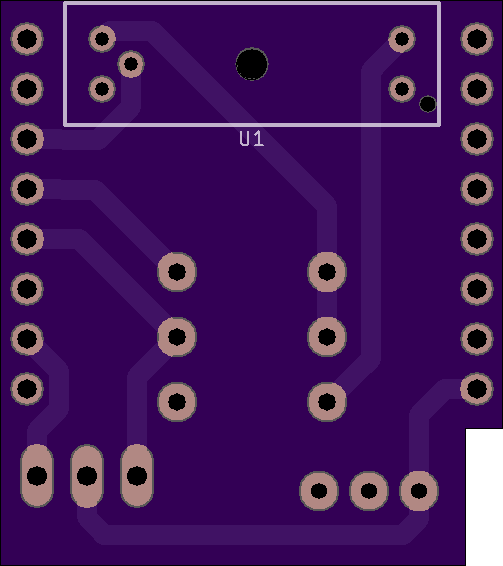
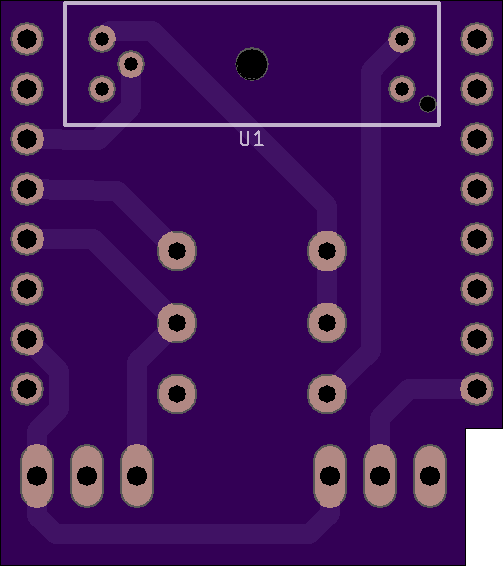
Change DS18B20 for ROOM to waterproof lead

diff --git a/pcb/Brew-Bubbles Values.html b/pcb/Brew-Bubbles Values.html
@@ -4,8 +4,7 @@
 <tr><td><b>Qty</b></td><td><b>Value</b></td><td><b>Device</b></td><td><b>Package</b></td><td><b>Parts</b></td><td><b>Description</b></td><td><b>PROD_ID</b></td><td><b>SF_ID</b></td><td><b>STORE_ID</b></td><td><b>VALUE</b></td></tr>
 <tr><td>1</td><td>150Ω</td><td>150OHM-HORIZ-1/4W-5%</td><td>AXIAL-0.3</td><td>R3</td><td>150Ω resistor</td><td></td><td></td><td></td><td>150</td></tr>
 <tr><td>2</td><td>2.2kΩ</td><td>330OHM-HORIZ-1/4W-5%</td><td>AXIAL-0.3</td><td>R1, R2</td><td>2k2Ω resistor</td><td></td><td></td><td></td><td>2200</td></tr>
-<tr><td>1</td><td>3PIN90</td><td>PINHD-1X3/90</td><td>1X03/90</td><td>VESSEL</td><td>PIN HEADER</td><td></td><td></td><td></td><td></td></tr>
-<tr><td>1</td><td>DS18B20</td><td>DS18B20</td><td>TO-92-AMMO</td><td>ROOM</td><td>Dallas/Maxim DS18B20 1-Wire Temperature Sensor</td><td></td><td></td><td></td><td></td></tr>
+<tr><td>2</td><td>3PIN90</td><td>PINHD-1X3/90</td><td>1X03/90</td><td>ROOM, VESSEL</td><td>PIN HEADER</td><td></td><td></td><td></td><td></td></tr>
 <tr><td>1</td><td>GP1A57HR</td><td>GP1A57HR</td><td>GP1A57HR</td><td>U1</td><td>Sharp GP1A57HR Transmissive Photointerrupter</td><td></td><td></td><td></td><td></td></tr>
 <tr><td>1</td><td>WEMOS-D1-MINI-SHIELD</td><td>WEMOS-D1-MINI-SHIELD</td><td>WEMOS-D1-MINI-SHIELD</td><td>U2</td><td>WEMOS D1 mini</td><td></td><td></td><td></td><td></td></tr>
 </table>

diff --git a/pcb/Brew-Bubbles Parts.html b/pcb/Brew-Bubbles Parts.html
@@ -5,8 +5,8 @@
 <tr><td>R1</td><td>2.2kΩ</td><td>2k2OHM-HORIZ-1/4W-5%</td><td>AXIAL-0.3</td><td>2k2Ω resistor</td><td></td><td></td><td></td><td>2200</td></tr>
 <tr><td>R2</td><td>2.2kΩ</td><td>2k2OHM-HORIZ-1/4W-5%</td><td>AXIAL-0.3</td><td>2k2Ω resistor</td><td></td><td></td><td></td><td>2200</td></tr>
 <tr><td>R3</td><td>150Ω</td><td>330OHM-HORIZ-1/10W-5%</td><td>AXIAL-0.3</td><td>150Ω resistor</td><td></td><td></td><td></td><td>250</td></tr>
-<tr><td>ROOM</td><td>DS18B20</td><td>DS18B20</td><td>TO-92-AMMO</td><td>Dallas/Maxim DS18B20 1-Wire Temperature Sensor</td><td></td><td></td><td></td><td></td></tr>
 <tr><td>U2</td><td>WEMOS-D1-MINI-SHIELD</td><td>WEMOS-D1-MINI-SHIELD</td><td>WEMOS-D1-MINI-SHIELD</td><td></td><td></td><td></td><td></td><td></td></tr>
 <tr><td>U1</td><td>GP1A57HR</td><td>GP1A57HR</td><td>GP1A57HR</td><td>Sharp GP1A57HR Transmissive Photointerrupter</td><td></td><td></td><td></td><td></td></tr>
+<tr><td>ROOM</td><td>3PIN90</td><td>PINHD-1X3/90</td><td>1X03/90</td><td>PIN HEADER</td><td></td><td></td><td></td><td></td></tr>
 <tr><td>VESSEL</td><td>3PIN90</td><td>PINHD-1X3/90</td><td>1X03/90</td><td>PIN HEADER</td><td></td><td></td><td></td><td></td></tr>
 </table>
